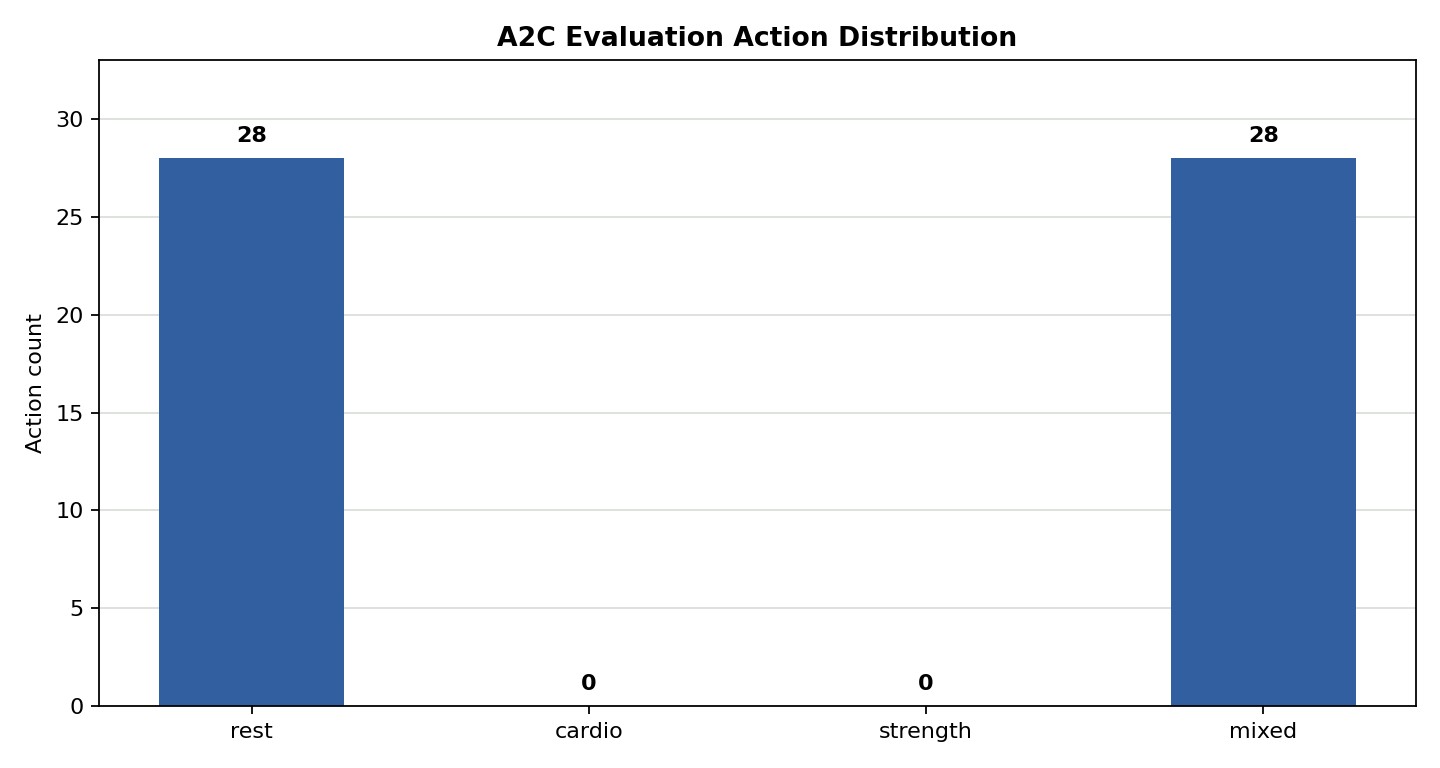
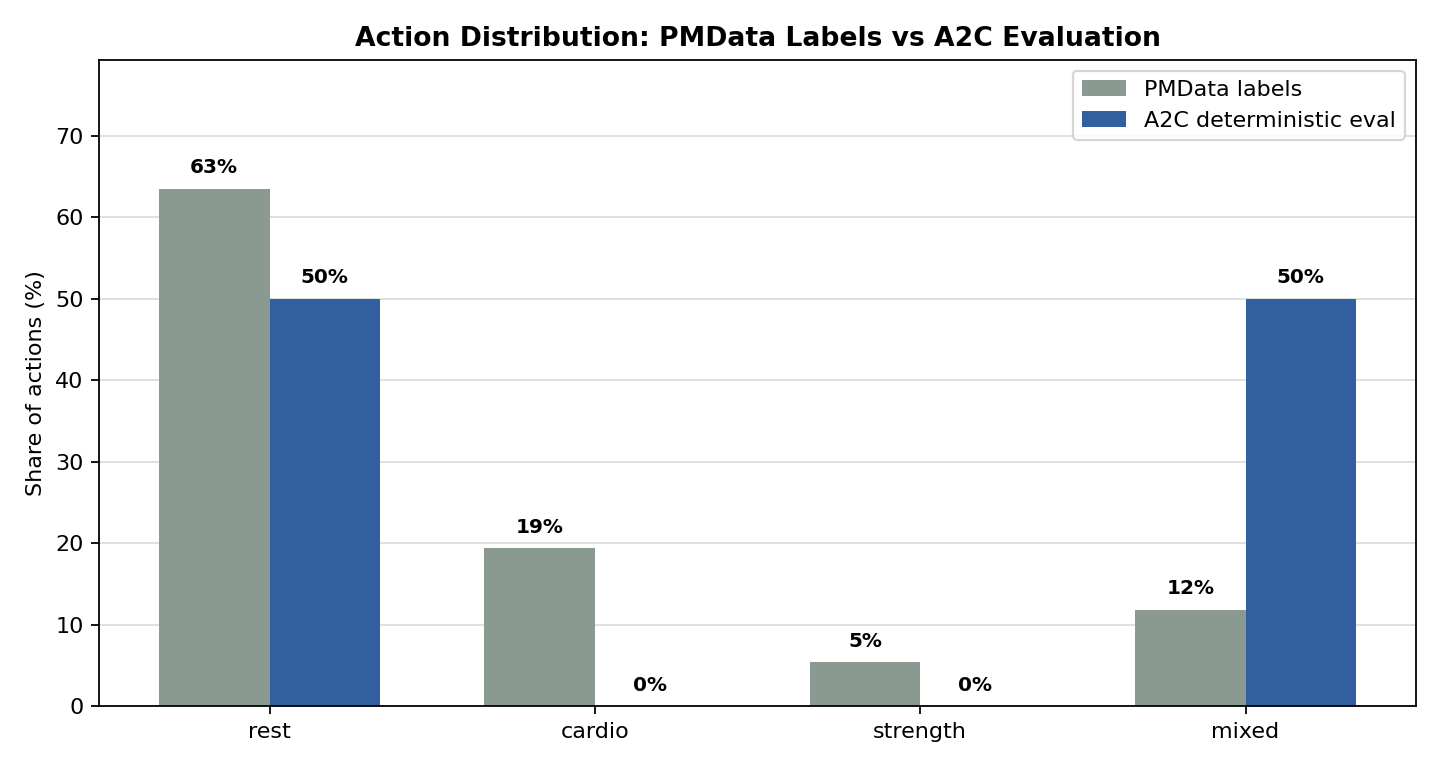
Clarify PMData action distribution evidence

diff --git a/scripts/generate_readme_assets.py b/scripts/generate_readme_assets.py
@@ -13,6 +13,7 @@ ROOT = Path(__file__).resolve().parents[1]
 ASSETS = ROOT / "assets"
 RESULTS = ROOT / "results"
 MANIFEST = ROOT / "data" / "raw" / "pmdata_manifest.json"
+RAW_DATA = ROOT / "data" / "raw" / "workout_sequences.csv"
 
 
 def load_json(name: str) -> dict[str, Any]:
@@ -38,7 +39,7 @@ def save_policy_comparison() -> None:
     fig, ax = plt.subplots(figsize=(9, 4.8))
     bars = ax.barh(labels, values, color=colors, height=0.55)
     ax.axvline(0, color="#17211b", linewidth=1)
-    ax.set_title("Policy Comparison on Synthetic Demo Data", weight="bold")
+    ax.set_title("Policy Comparison on PMData-Derived Environment", weight="bold")
     ax.set_xlabel("Average episode return")
     ax.grid(axis="x", color="#d9dfd8", linewidth=0.8)
     ax.set_axisbelow(True)
@@ -83,17 +84,50 @@ def save_action_distribution() -> None:
     action_names = {"0": "rest", "1": "cardio", "2": "strength", "3": "mixed"}
     a2c = load_json("a2c_metrics.json")
     distribution = a2c.get("evaluation", {}).get("action_distribution", {})
-    values = [int(distribution.get(str(index), 0)) for index in range(4)]
+    a2c_counts = [int(distribution.get(str(index), 0)) for index in range(4)]
+    dataset_counts = load_pmdata_action_counts()
+    a2c_total = max(sum(a2c_counts), 1)
+    dataset_total = max(sum(dataset_counts), 1)
+    a2c_values = [100 * value / a2c_total for value in a2c_counts]
+    dataset_values = [100 * value / dataset_total for value in dataset_counts]
+    labels = [action_names[str(index)] for index in range(4)]
+    x_positions = list(range(4))
+    width = 0.34
 
     fig, ax = plt.subplots(figsize=(9, 4.8))
-    ax.bar([action_names[str(index)] for index in range(4)], values, color="#315f9f", width=0.55)
-    ax.set_title("A2C Evaluation Action Distribution", weight="bold")
-    ax.set_ylabel("Action count")
-    ax.set_ylim(0, max(values + [1]) * 1.18)
+    dataset_bars = ax.bar(
+        [x - width / 2 for x in x_positions],
+        dataset_values,
+        color="#8a9a91",
+        width=width,
+        label="PMData labels",
+    )
+    a2c_bars = ax.bar(
+        [x + width / 2 for x in x_positions],
+        a2c_values,
+        color="#315f9f",
+        width=width,
+        label="A2C deterministic eval",
+    )
+    ax.set_title("Action Distribution: PMData Labels vs A2C Evaluation", weight="bold")
+    ax.set_ylabel("Share of actions (%)")
+    ax.set_xticks(x_positions, labels)
+    ax.set_ylim(0, max(dataset_values + a2c_values + [1]) * 1.25)
     ax.grid(axis="y", color="#d9dfd8", linewidth=0.8)
     ax.set_axisbelow(True)
-    for index, value in enumerate(values):
-        ax.text(index, value + max(values + [1]) * 0.03, str(value), ha="center", weight="bold")
+    ax.legend()
+    label_offset = max(dataset_values + a2c_values + [1]) * 0.03
+    for bars in (dataset_bars, a2c_bars):
+        for bar in bars:
+            value = bar.get_height()
+            ax.text(
+                bar.get_x() + bar.get_width() / 2,
+                value + label_offset,
+                f"{value:.0f}%",
+                ha="center",
+                weight="bold",
+                fontsize=9,
+            )
     fig.tight_layout()
     fig.savefig(ASSETS / "action_distribution.png", dpi=160)
     plt.close(fig)
@@ -197,6 +231,25 @@ def load_manifest() -> dict[str, Any]:
     if not MANIFEST.exists():
         return {}
     return json.loads(MANIFEST.read_text(encoding="utf-8"))
+
+
+def load_pmdata_action_counts() -> list[int]:
+    if not RAW_DATA.exists():
+        return [0, 0, 0, 0]
+    counts = [0, 0, 0, 0]
+    lines = RAW_DATA.read_text(encoding="utf-8").splitlines()
+    if not lines:
+        return counts
+    headers = lines[0].split(",")
+    action_index = headers.index("action")
+    for line in lines[1:]:
+        parts = line.split(",")
+        if len(parts) <= action_index:
+            continue
+        action = int(parts[action_index])
+        if 0 <= action < len(counts):
+            counts[action] += 1
+    return counts
 
 
 def _rounded(

diff --git a/README.md b/README.md
@@ -113,7 +113,7 @@ PMData policy comparison:
 
 ![Policy comparison](assets/policy_comparison.png)
 
-A2C evaluation action distribution:
+PMData labels vs A2C evaluation action distribution:
 
 ![A2C action distribution](assets/action_distribution.png)
 
@@ -147,7 +147,7 @@ Add a new dataset by changing `data.raw_path` and column names in config. Add a 
 
 ## Known Limitations
 
-The project now uses PMData for the local experiment evidence, but raw PMData files are not committed because dataset files belong under ignored `data/raw/`. The LSTM world model is compact for coursework and CPU feasibility. Safety constraints are illustrative and not clinically validated. On the local PMData run, REINFORCE achieved `1.7819` average evaluation return over two short evaluation episodes, A2C achieved `0.9089`, and the random masked baseline achieved `-1.0453`; these are educational pipeline checks, not medical or production claims.
+The project now uses PMData for the local experiment evidence, but raw PMData files are not committed because dataset files belong under ignored `data/raw/`. The LSTM world model is compact for coursework and CPU feasibility. Safety constraints are illustrative and not clinically validated. On the local PMData run, REINFORCE achieved `1.7819` average evaluation return over two short evaluation episodes, A2C achieved `0.9089`, and the random masked baseline achieved `-1.0453`; these are educational pipeline checks, not medical or production claims. The deterministic A2C evaluation is recovery-heavy (`rest`/`mixed`) after short training, which is reported as a limitation rather than hidden.
 
 ## References
 

diff --git a/docs/EXPERIMENTS.md b/docs/EXPERIMENTS.md
@@ -42,7 +42,7 @@ Result from local PMData run:
 
 Interpretation: the software pipeline executes end to end on PMData-derived workout sequences and the learned policies can be compared against a random masked policy. REINFORCE achieved the highest return in this compact CPU run, while A2C still beat the random masked baseline and produced zero safety violations.
 
-Limitation: PMData is real, but the RL environment remains an educational learned simulator and not a medical recommendation engine.
+Limitation: PMData is real, but the RL environment remains an educational learned simulator and not a medical recommendation engine. The deterministic A2C evaluation collapsed to a recovery-heavy mix of `rest` and `mixed` in this short run; the README plot compares that policy distribution against the PMData label distribution so this behavior is visible instead of overstated.
 
 ## Additional Comparison Checklist
 